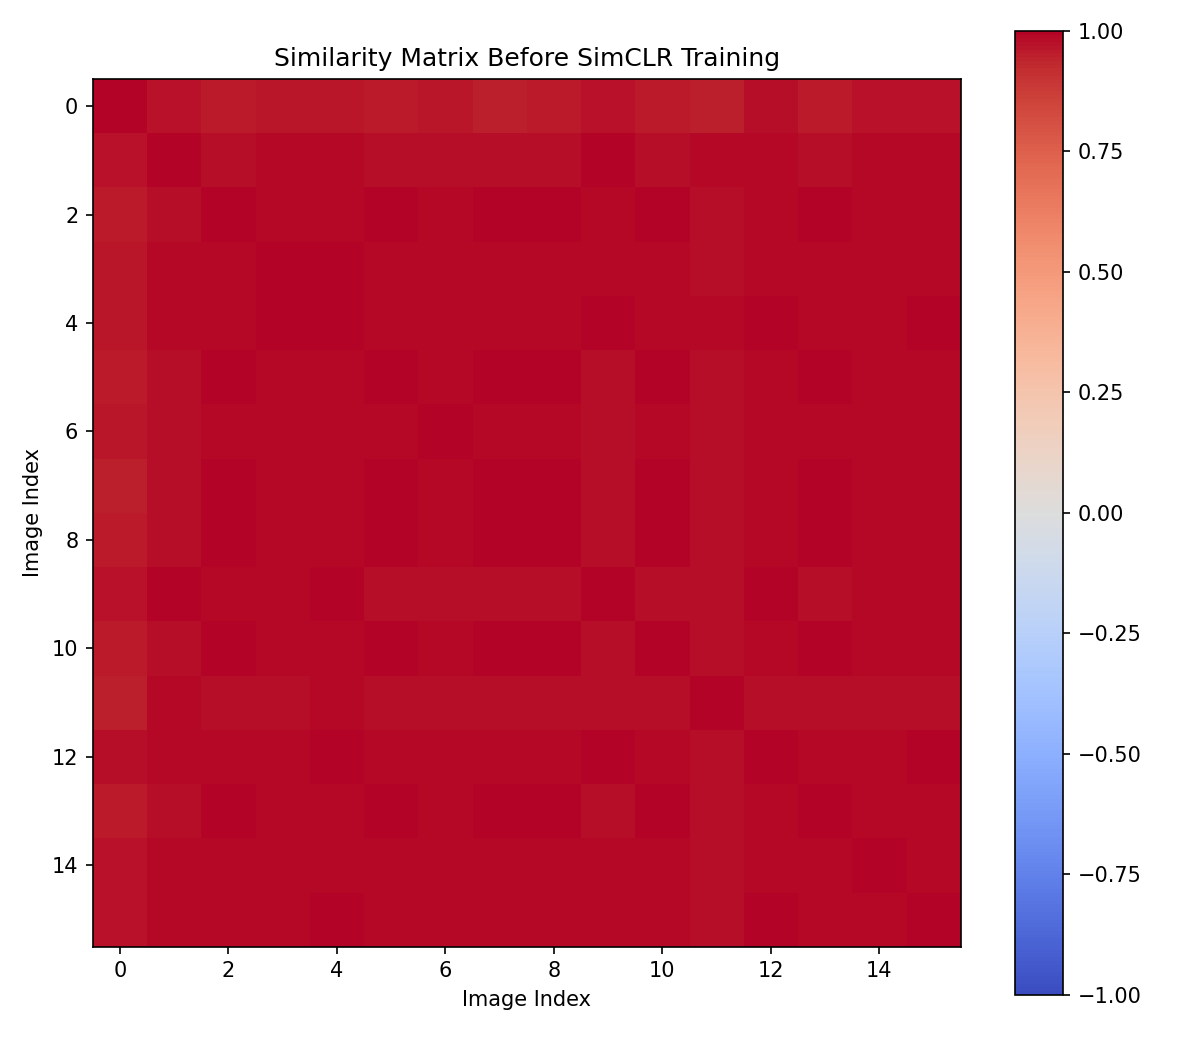
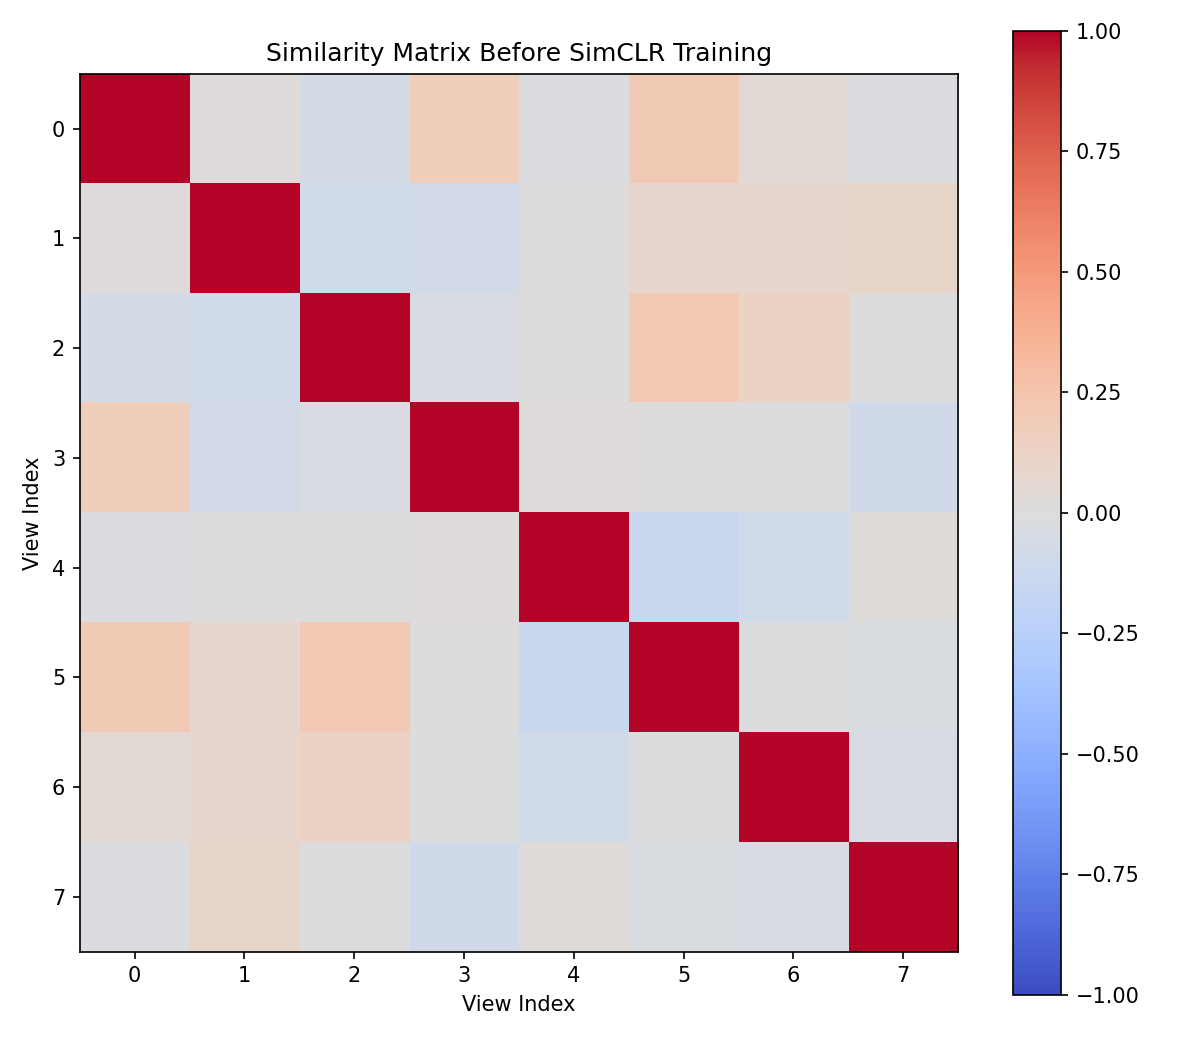
Task4 complete - SimCLR model, NT-Xent loss, similarity matrix saved

diff --git a/MSDS25066_05_task4_simclr.py b/MSDS25066_05_task4_simclr.py
@@ -151,3 +151,42 @@ dummy_z2  = torch.randn(4, 128).to(device)
 loss      = criterion(dummy_z1, dummy_z2)
 print(f"NT-Xent loss test: {loss.item():.4f}")
 print("Expected: around 2.0 to 3.0 for random inputs")
+
+
+import matplotlib.pyplot as plt
+import os
+
+def visualize_similarity_matrix(z1, z2, save_path):
+    """
+    Visualize 2N x 2N cosine similarity matrix as heatmap.
+    Positive pairs should be visible off the diagonal.
+    """
+    N = z1.shape[0]
+
+    # Normalize and concatenate
+    z1_norm = F.normalize(z1, dim=1)
+    z2_norm = F.normalize(z2, dim=1)
+    z       = torch.cat([z1_norm, z2_norm], dim=0)
+
+    # Compute similarity matrix
+    sim_matrix = torch.mm(z, z.T).detach().cpu().numpy()
+
+    os.makedirs("results", exist_ok=True)
+    fig, ax = plt.subplots(figsize=(8, 7))
+    im = ax.imshow(sim_matrix, cmap="coolwarm", vmin=-1, vmax=1)
+    plt.colorbar(im)
+
+    ax.set_title("Similarity Matrix Before SimCLR Training")
+    ax.set_xlabel("View Index")
+    ax.set_ylabel("View Index")
+    plt.tight_layout()
+    plt.savefig(save_path, dpi=150)
+    plt.close()
+    print(f"Saved: {save_path}")
+
+# Test with small batch
+visualize_similarity_matrix(
+    dummy_z1,
+    dummy_z2,
+    "results/similarity_matrix_before_training.png"
+)
